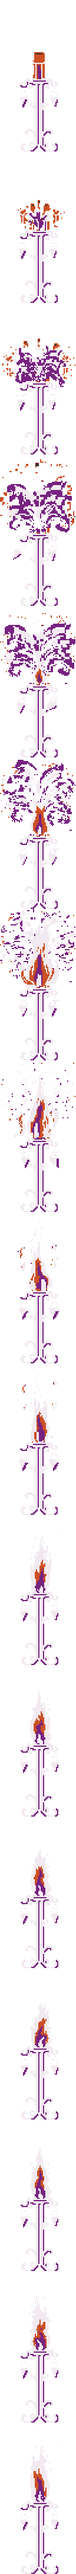
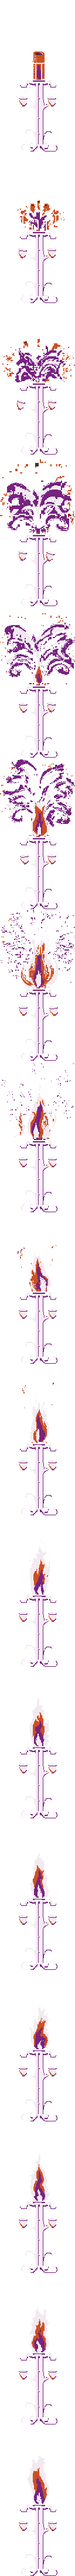
mobile screen scaling

diff --git a/js/score-state.js b/js/score-state.js
@@ -23,7 +23,7 @@ ScoreState.prototype.create = function create() {
   var i = 0;
   var j = 0;
   var k = 0;
-  var time = (ghostTime / this.game.difficulty) | 0;
+  var time = this.game.difficulty < 10 ? 250 : 100;
 
   function nextGhost() {
     var x = j * spacingX + offsetX;
@@ -44,7 +44,7 @@ ScoreState.prototype.create = function create() {
     if (i < this.game.difficulty) {
       this.game.time.events.add(time, nextGhost);
     } else {
-      this.game.time.events.add(finalTimeout, function () {
+      this.game.time.events.add(finalTimeout, function() {
         this.game.difficulty = 0;
         this.game.state.start('default');
       });

diff --git a/js/torch.js b/js/torch.js
@@ -18,14 +18,14 @@ var Torch = function Torch(game, x, y) {
   this.emitter.minParticleSpeed.setTo(-15, -20);
   this.emitter.maxParticleSpeed.setTo(15, -80);
   this.emitter.gravity = 0;
-  
+
   this.anchor.setTo(.5, .9);
 
 };
 
 Torch.preload = function preload(game) {
   game.load.spritesheet(
-    'torch', '/img/torch.png',
+    'torch', '/img/tower_wide.png',
     TILE_W * 2,
     TILE_H * 4
   );

diff --git a/index.html b/index.html
@@ -45,13 +45,7 @@
     <script type="text/javascript" src="/js/level-data.js"></script>
     <script type="text/javascript" src="/js/level-generator.js"></script>
 
-    <style type="text/css">
-    body, html {
-      margin: 0;
-      padding: 0;
-      background-color: #000000;
-    }
-    </style>
+    <link rel="stylesheet" href="/css/styles.css" charset="utf-8">
 
   </head>
   <body>

diff --git a/js/main.js b/js/main.js
@@ -33,6 +33,9 @@ function main() {
     },
 
     create: function create() {
+      game.scale.scaleMode = Phaser.ScaleManager.SHOW_ALL;
+      game.antialias = false;
+
       game.difficulty = 0;
       game.levelGenerator = new LevelGenerator(game);
 

diff --git a/css/styles.css b/css/styles.css
@@ -1,0 +1,23 @@
+body, html {
+  margin: 0;
+  padding: 0;
+  background-color: #000000;
+}
+
+html {
+  height: 100%;
+}
+
+body {
+  height: 100%;
+}
+
+#main {
+  margin: auto;
+  width: auto;
+  height: 100%;
+}
+
+#main canvas {
+  margin: auto;
+}
